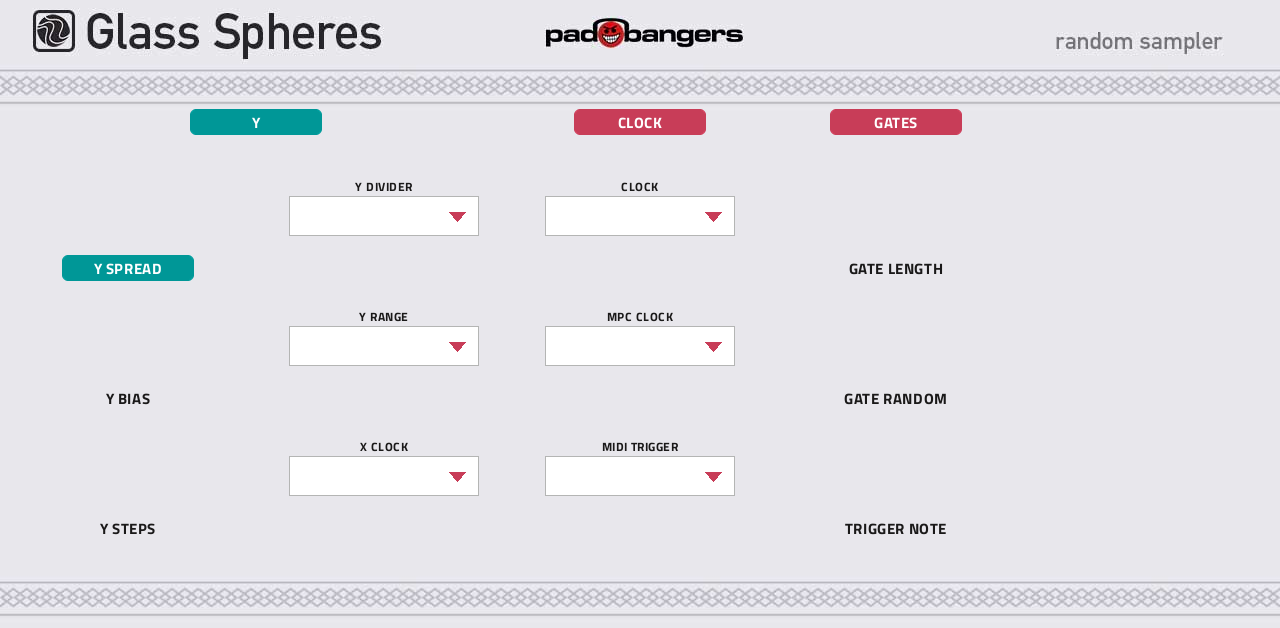
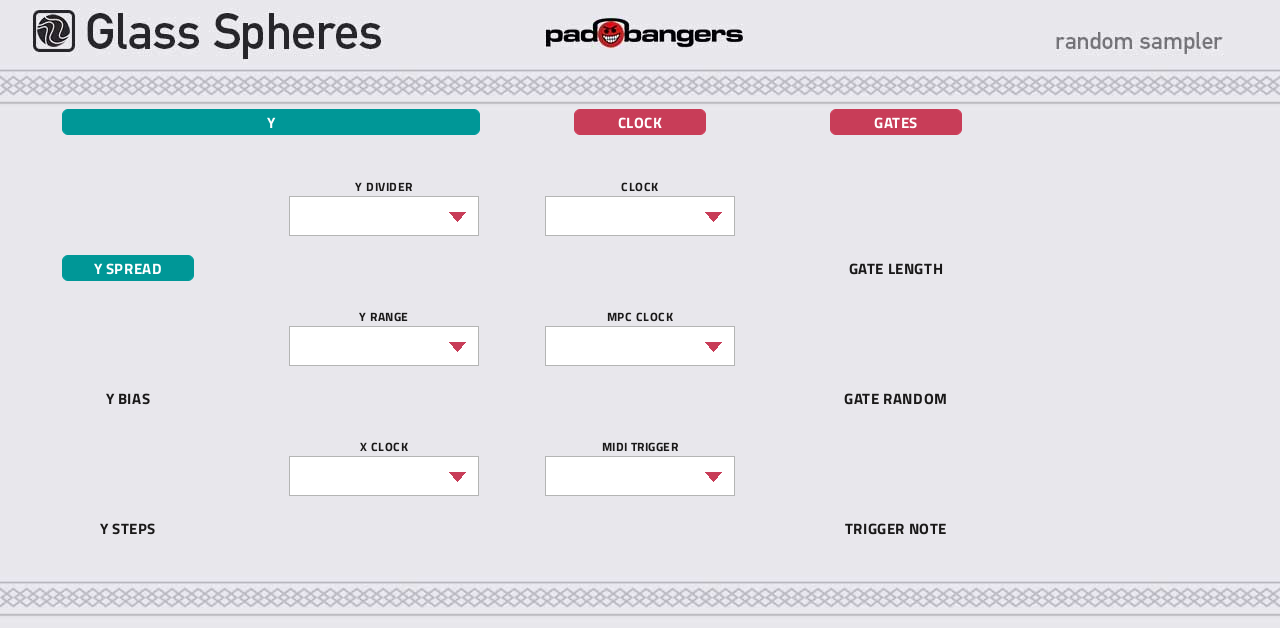
Y / CLOCK: the Y tag spans the whole Y section
In 1.0.0 the "Y" tag sat between the knob column and the list column,
which looked misplaced next to CLOCK and GATES. It now runs from Y
SPREAD's tag to the lists' right edge: skin/gen_layout.py (YC_Y_TAG,
pill_teal_wide.png) for the Docker route, sdk/tools/wide_tag.py for
the SDK skin. layout.conf regenerated (also picks up the manual's
15 px text and Ko-fi line).

Changed region(s): [[0.25, 0.1513, 0.375, 0.242], [0.0312, 0.1513, 0.1562, 0.242], [0.1875, 0.1815, 0.2188, 0.2118]]

diff --git a/sdk/tools/wide_tag.py b/sdk/tools/wide_tag.py
@@ -1,0 +1,59 @@
+#!/usr/bin/env python3
+"""Widen the "Y" tag on the Y / CLOCK tab so it spans the whole Y section: the knob column (Y SPREAD, Y BIAS,
+Y STEPS) and the list column (Y DIVIDER, Y RANGE, X CLOCK). In 1.0.0 it sat between the two columns, which looked
+misplaced next to CLOCK and GATES (one column each).
+
+The tag is part of the tab's rendered background (sh_bg_1.png). This script draws a wide teal pill there with the
+pill's own edge (skin/pill_teal.png, middle stretched) and moves the rendered "Y" from the old pill to its centre.
+The background is flat horizontally, and the new pill covers the old one, so nothing else needs repainting.
+skin/gen_layout.py draws the same (YC_Y_TAG, skin/pill_teal_wide.png) for the Docker route.
+
+    python sdk/tools/wide_tag.py
+
+Idempotent: the first run keeps the original image in sdk/tools/orig/ and every run starts from it.
+"""
+import os
+import shutil
+
+from PIL import Image
+
+HERE = os.path.dirname(os.path.abspath(__file__))
+REPO = os.path.normpath(os.path.join(HERE, "..", ".."))
+SKINS = os.path.join(HERE, "..", "skins")
+ORIG = os.path.join(HERE, "orig")
+
+BG = "sh_bg_1.png"
+OLD = (190, 109, 132, 26)        # x, y, w, h of the 1.0.0 tag in the skin (layout cx 256, cy 208; skin y = layout - 86)
+NEW_X, NEW_W = 62, 418           # from Y SPREAD's tag (cx 128 - 66) to the lists' right edge (cx 384 + 95)
+TEXT_W = 52                      # the middle of the old pill that holds the "Y"
+
+
+def wide_pill(w, h):
+    """skin/pill_teal.png at width w: its rounded ends kept, the middle stretched."""
+    pill = Image.open(os.path.join(REPO, "skin", "pill_teal.png")).convert("RGBA").resize((OLD[2], h))
+    cap = h // 2
+    out = Image.new("RGBA", (w, h))
+    out.paste(pill.crop((0, 0, cap, h)), (0, 0))
+    out.paste(pill.crop((cap, 0, cap + 1, h)).resize((w - 2 * cap, h)), (cap, 0))
+    out.paste(pill.crop((OLD[2] - cap, 0, OLD[2], h)), (w - cap, 0))
+    return out
+
+
+def main():
+    os.makedirs(ORIG, exist_ok=True)
+    keep = os.path.join(ORIG, BG)
+    if not os.path.exists(keep):
+        shutil.copy2(os.path.join(SKINS, BG), keep)
+    bg = Image.open(keep).convert("RGBA")
+    x, y, w, h = OLD
+    label = bg.crop((x + (w - TEXT_W) // 2, y, x + (w + TEXT_W) // 2, y + h))
+    bg.alpha_composite(wide_pill(NEW_W, h), (NEW_X, y))
+    bg.paste(label, (NEW_X + (NEW_W - TEXT_W) // 2, y))
+    bg.convert("RGB").save(os.path.join(SKINS, BG), optimize=True)
+    # the same pill for skin/gen_layout.py
+    wide_pill(NEW_W, h).save(os.path.join(REPO, "skin", "pill_teal_wide.png"), optimize=True)
+    print("Y tag: x %d..%d (was %d..%d)" % (NEW_X, NEW_X + NEW_W, x, x + w))
+
+
+if __name__ == "__main__":
+    main()

diff --git a/skin/gen_layout.py b/skin/gen_layout.py
@@ -42,6 +42,7 @@ YC_KNOBS = [(GRID_X[0], [("y_spread", "Y SPREAD", "teal"), ("y_bias", "Y BIAS", 
 YC_LISTS = [(GRID_X[1], [("y_divider", "Y DIVIDER"), ("y_range", "Y RANGE"), ("x_clock", "X CLOCK")]),
             (GRID_X[2], [("clock", "CLOCK"), ("clock_div", "MPC CLOCK"), ("midi_trigger", "MIDI TRIGGER")])]
 YC_LIST_ROWS = [292, 422, 552]
+YC_Y_TAG = (271, 418)   # the Y tag's centre and width: from Y SPREAD's tag (x 62) to the lists' right edge (x 480)
 QLINKS_YC = ["y_spread", "y_bias", "y_steps", "y_divider",
              "y_range", "x_clock", "clock", "clock_div",
              "midi_trigger", "t_pw", "t_pw_random", "midi_note"]
@@ -202,7 +203,9 @@ def main_page():
 
 def yc_page():
     L = ["[tab Y / CLOCK]", BACKGROUND]
-    for x, title, colour in ((256, "Y", "teal"), (GRID_X[2], "CLOCK", "raspberry"), (GRID_X[3], "GATES", "raspberry")):
+    # Y spans the whole Y section (knob column and list column); sdk/tools/wide_tag.py draws the same in the SDK skin.
+    L += [tag(YC_Y_TAG[0], 208, "teal_wide", YC_Y_TAG[1]), text(YC_Y_TAG[0], 208, "Y", "ffffff")]
+    for x, title, colour in ((GRID_X[2], "CLOCK", "raspberry"), (GRID_X[3], "GATES", "raspberry")):
         L += [tag(x, 208, colour), text(x, 208, title, "ffffff")]
     for x, items in YC_KNOBS:
         for j, (key, label, colour) in enumerate(items):

diff --git a/sdk/README.md b/sdk/README.md
@@ -21,6 +21,7 @@ inside the MPC process as before: the SDK doesn't sandbox plugins, it only drops
 | `skin.json` | What the skin scripts change: MANUAL tab and ink, main tab, knob components and knobs with a modulation view |
 | `tools/manual_art.py` | Redraws the MANUAL tab from `skin/gen_layout.py` (`MANUAL`, `MANUAL_SIZE` = 15 px body text, `SUPPORT` = "Support the project: / Ko-Fi.com/padbangers" under the topic list). Needs Pillow and Titillium Web SemiBold/Bold (OFL) |
 | `tools/mod_rings.py` | Modulation on the main tab: a dot around each modulated knob (65-frame strip under the knob, hidden while nothing modulates it). Shared with Overcast and Drips (toggle and locks are optional) |
+| `tools/wide_tag.py` | Widens the Y / CLOCK tab's "Y" tag over the whole Y section (knobs and lists) in `sh_bg_1.png`; `skin/gen_layout.py` draws the same (`YC_Y_TAG`) |
 | `build.py` | Runs the SDK's `tools/build.py` on this folder and adds the include path the engine needs (`CPLUS_INCLUDE_PATH`) |
 
 ## Build and test
@@ -33,7 +34,7 @@ python <sdk>/tools/mpc_remote.py <ip> update sdk --drive <n> --yes    # then res
 
 The SDK is found at `$MPC_SDK`, else `../mpc-plugin-builder-sdk` next to this repo. Output folder:
 `sdk/build/Padbangers - VST - Glass Spheres/`. Skin scripts, in this order after copying a new rendered skin:
-`manual_art.py <fonts>`, `mod_rings.py` (both can be run again).
+`manual_art.py <fonts>`, `mod_rings.py`, `wide_tag.py` (all can be run again).
 
 **host_sim on the MPC itself** (the real target; standalone, the MPC app is not touched): build the simulator for ARM
 with the SDK's zig and run it against the arm32 build:
